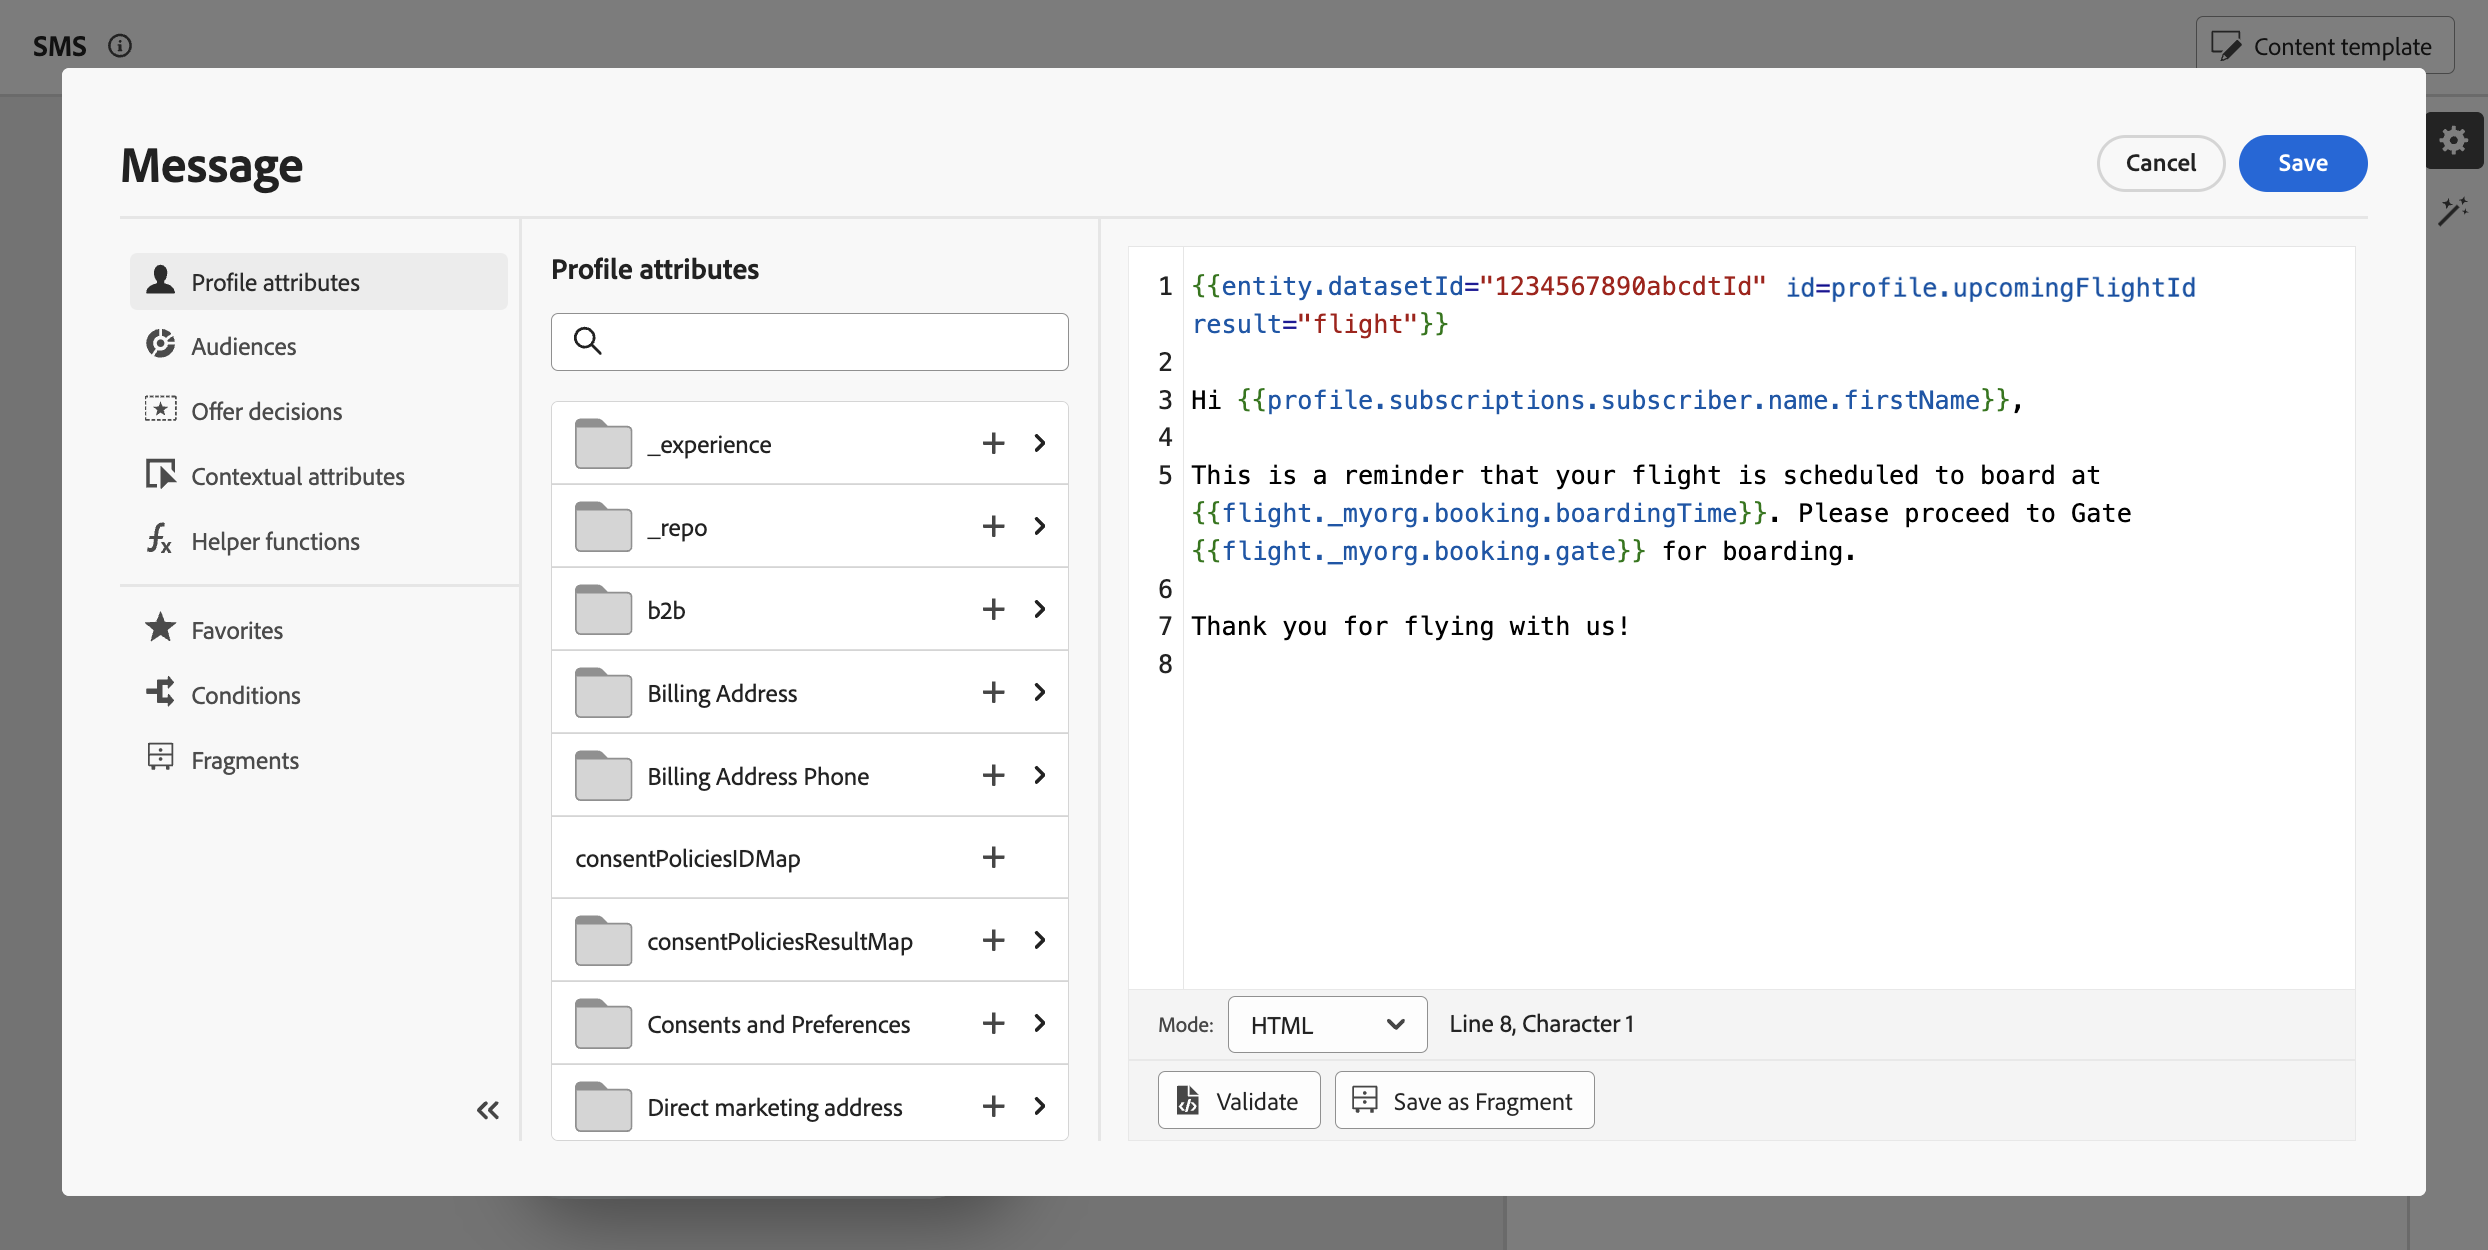
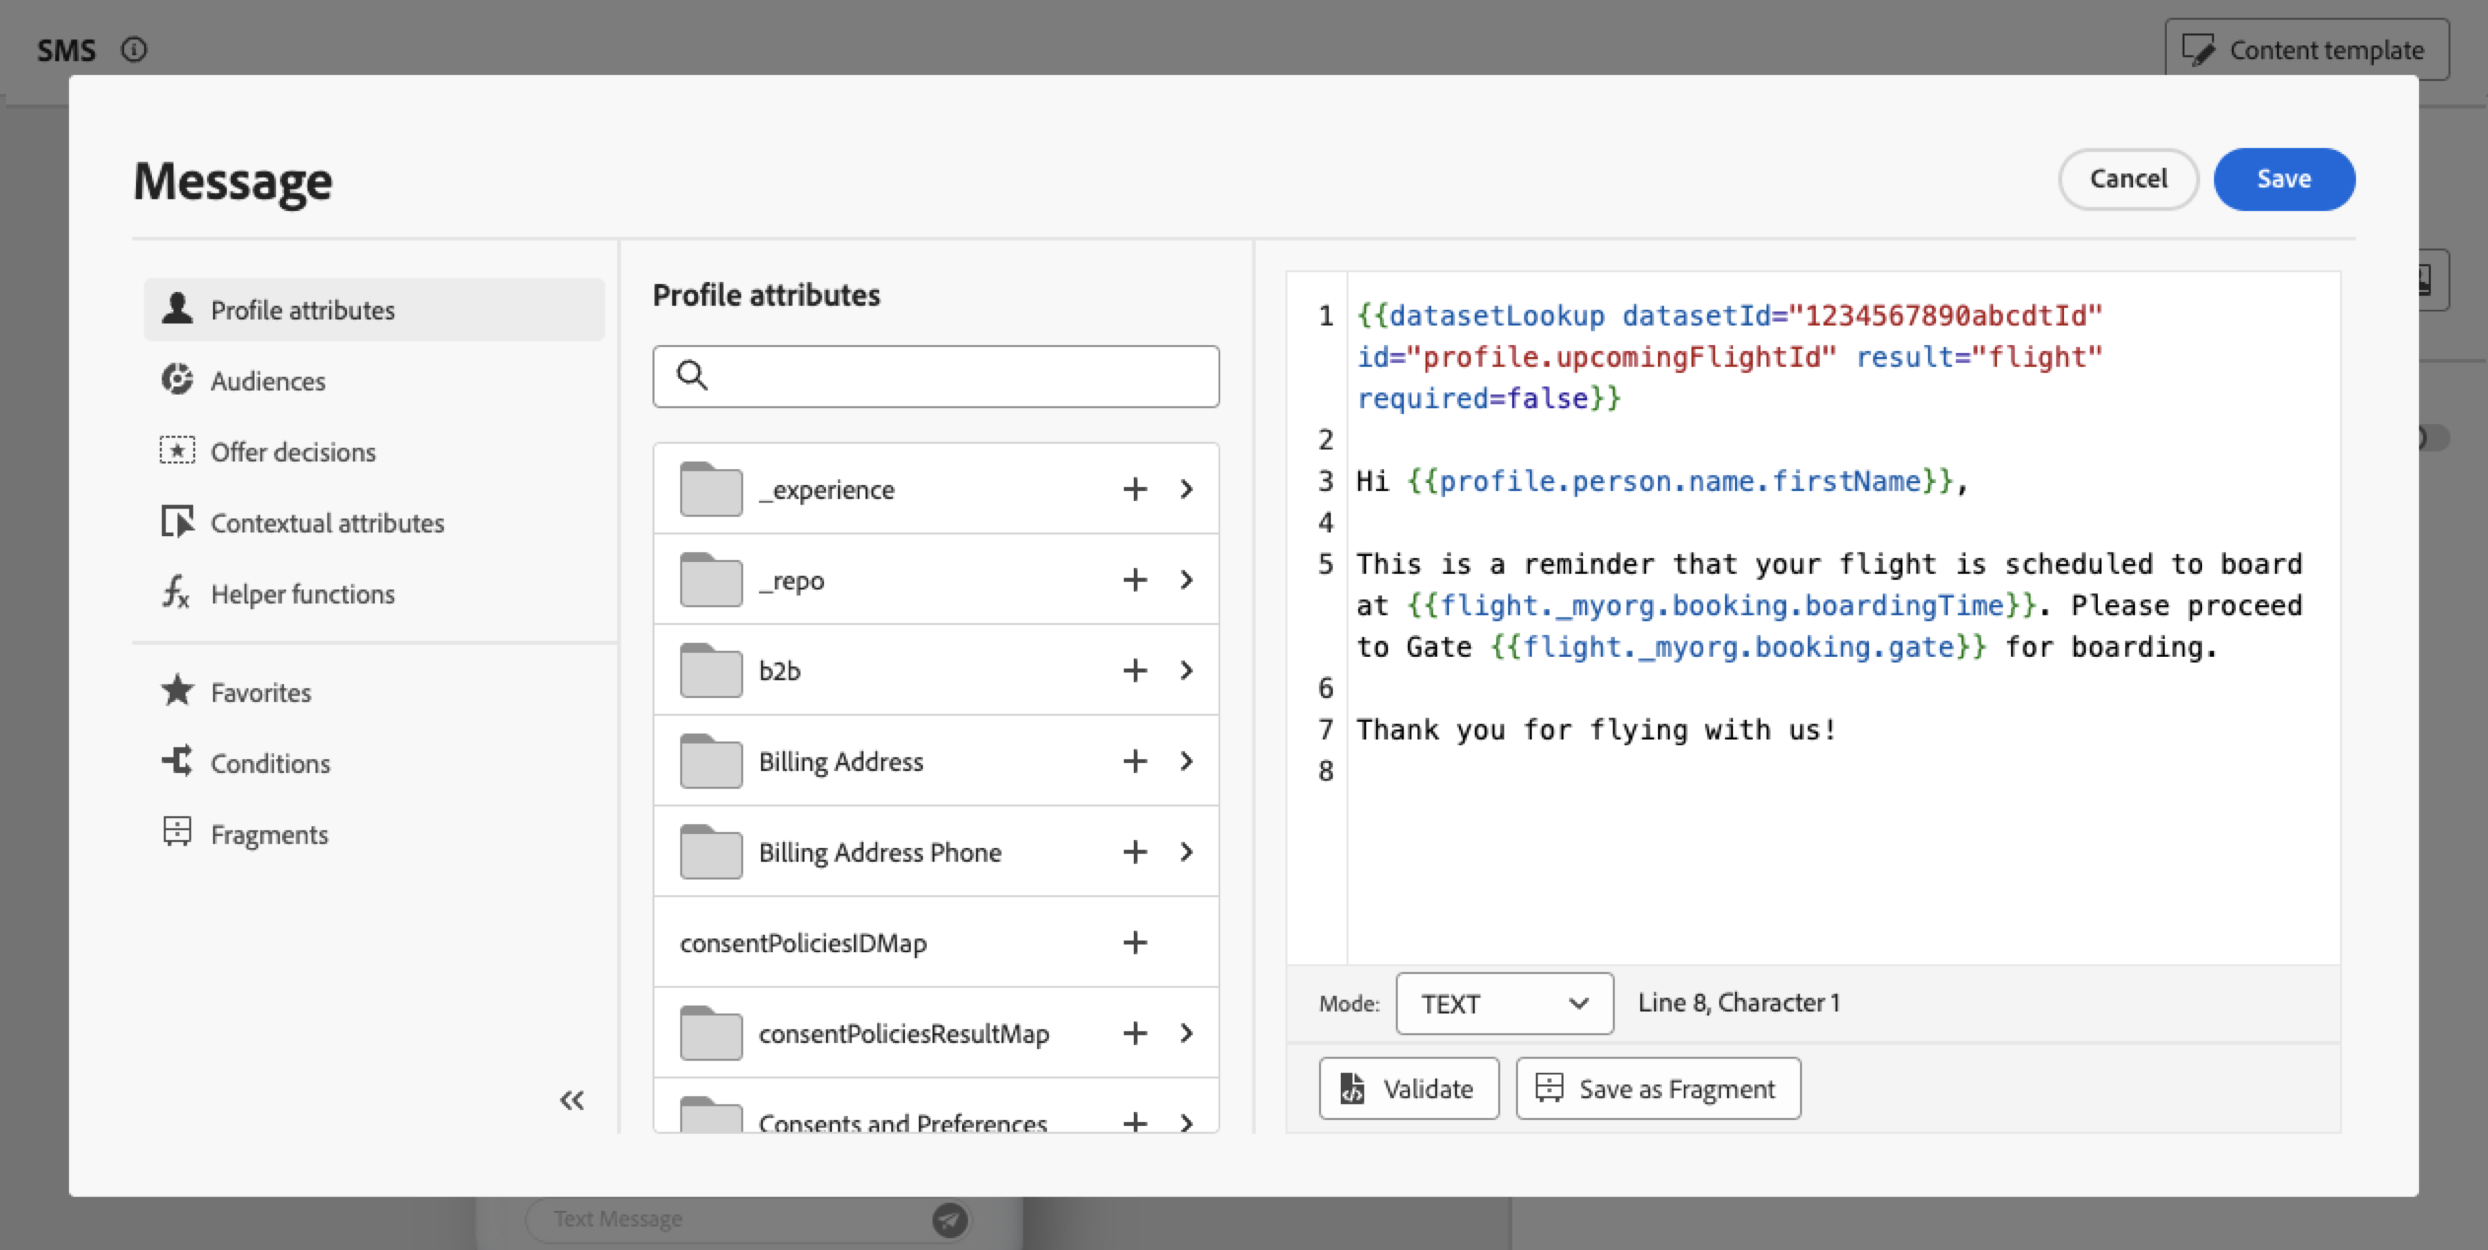
Docac 11262 data lookup personalization (#1775)
* first draft data lookup

* update

* fix

* update

* fix

* updtae rn

* add link to doc

* remove screenshot

diff --git a/help/using/personalization/lookup-aep-data.md b/help/using/personalization/lookup-aep-data.md
@@ -1,26 +1,78 @@
 ---
 solution: Journey Optimizer
 product: journey optimizer
-title: Use Adobe Experience Platform data for personalization (beta)
+title: Use Adobe Experience Platform data for personalization (Beta)
 description: Learn how to use Adobe Experience Platform data for personalization.
 feature: Personalization, Rules
 topic: Personalization
 role: Data Engineer
 level: Intermediate
 keywords: expression, editor
-hidefromtoc: yes
-hide: yes
 exl-id: 2fc10fdd-ca9e-46f0-94ed-2d7ea4de5baf
 ---
-# Use Adobe Experience Platform data for personalization (beta) {#aep-data}
+# Use Adobe Experience Platform data for personalization (Beta) {#aep-data}
 
 >[!AVAILABILITY]
 >
->This feature is currently only available as a private beta.
+>This feature is currently available to all customers as a public beta.
 >
->For now, it is only available for the **email channel** and for testing purposes in the non-production sandbox you have provided to Adobe and for the datasets requested for the beta. 
+>In order to use this capability, you must first accept beta terms for your organization that display when adding the new "datasetLookup" helper functions in the personalization editor.
 
-Journey Optimizer allows you to leverage data from Adobe Experience Platform in the personalization editor to [personalize your content](../personalization/personalize.md). The steps are as follows: 
+Journey Optimizer allows you to leverage data from Adobe Experience Platform in the personalization editor to [personalize your content](../personalization/personalize.md). To do this, datasets needed for lookup personalization must first be enabled through an API call as described below. Once done, you can use their data to personalize your content into [!DNL Journey Optimizer].
+
+## Beta restrictions and guidelines {#guidelines}
+
+Before you begin, please review the following restrictions and guidelines:
+
+### Datasets enablement {#enablement}
+
+* **Dataset size** is limited to 5GB for production datasets and 1GB for dev sandbox datasets
+* **A maximum of 50 datasets can be enabled** for lookup per organization at any time.
+* **Number of records** is restricted to 5M in production datasets and 1M in dev sandbox datasets.
+* **Data Usage Labelling and Enforcement** is not enforced at this time for datasets enabled for lookup.
+* **Datasets enabled for lookup and used in personalization are not protected from deletion**. It is up to you to keep track of which datasets are being used for personalization to ensure they are not deleted or removed.
+
+### Personalization using [!DNL Adobe Experience Platform] data {#perso}
+
+* **Supported channels**: For now, this capability is only available for usage within email, SMS, push and direct mail channels.
+* **Data Usage Labelling and Enforcement** is not enforced at this time for datasets enabled for lookup.
+* **Expression fragments**: Dataset lookup personalization cannot be placed within expression fragments at this time.
+
+## Enable a dataset for data lookup {#enable}
+
+In order to leverage data from your dataset for personalization, you need to use an API call to retrieve its status and enable lookup service.
+
+### Prerequisites {#prerequisites-enable}
+
+* Follow the directions detailed in [this documentation](https://developer.adobe.com/journey-optimizer-apis/references/authentication/) to configure your environment to send API commands.
+* The developer project must have the Adobe Journey Optimizer and Adobe Experience Platform APIs added to their project.
+
+    ![](assets/aep-data-api.png)
+
+* You must have manage datasets permission as part of your role.
+* The schema for which the dataset is based on must contain a **primary identity** that can act as the lookup key.
+
+### API call structure {#call}
+
+```
+
+curl -s -XPATCH "https://platform.adobe.io/data/core/entity/lookup/dataSets/${DATASET_ID}/${ACTION}" \ -H "Authorization: Bearer ${ACCESS_TOKEN}" \ -H "x-api-key: ${API_KEY}" \ -H "x-gw-ims-org-id: ${IMS_ORG}" \ -H "x-sandbox-name: ${SANDBOX_NAME}"
+
+```
+
+Where:
+
+* **URL** is `https://platform.adobe.io/data/core/entity/lookup/dataSets/${DATASET_ID}/${ACTION}`
+* **Dataset ID** is the dataset for which you wish to enable.
+* **Action** is enable OR disable.
+* **Access token** can be retrieved from the developer console.
+* **API key** can be retrieved from the developer console.
+* **IMS Org ID** is your Adobe IMS ORG.
+* **Sandbox Name** is the sandbox name the dataset is in (i.e. prod, dev etc.).
+
+## Leverage a dataset for personalization {#leverage}
+
+Once a dataset has been enabled for lookup personalization using an API call, you can use its data to personalize your content into [!DNL Journey Optimizer].
 
 1. Open the personalization editor, which is available in every context where you can define personalization such as messages. [Learn how to work with the personalization editor](../personalization/personalization-build-expressions.md)
 
@@ -32,18 +84,22 @@ Journey Optimizer allows you to leverage data from Adobe Experience Platform in 
 
     ```
 
-    {{entity.datasetId="datasetId" id="key" result="store"}}
+    {{datasetLookup datasetId="datasetId" id="key" result="store" required=false}}
 
     ```
 
-    * **entity.datasetId** is the ID of the dataset you are working with.
+    * **datasetId** is the ID of the dataset you are working with.
     * **id** is the ID of the source column that should be joined with the primary identity of the look up dataset. 
 
         >[!NOTE]
         >
-        >The value entered for this field can be either a field ID (*profile.couponValue*), a field passed in a journey event (*context.journey.events.event_ID.couponValue*), or a static value (*couponAbcd*). In any case, the system will use the value and lookup into the dataset to check if it matches a a key.
+        >The value entered for this field can be either a field ID (*profile.packages.packageSKU*), a field passed in a journey event (*context.journey.events.event_ID.productSKU*), or a static value (*sku007653*). In any case, the system will use the value and lookup into the dataset to check if it matches a key.
+        >
+        >If using a literal string value for the key, keep the text in quotes. Eg: `{{datasetLookup datasetId="datasetId" id="SKU1234" result="store" required=false}}`. If using an attribute value as a dynamic key, remove the quotes. Eg: `{{datasetLookup datasetId="datasetId" id=category.product.SKU result="SKU" required=false}}`
 
     * **result** is an arbitrary name that you need to provide to reference all the field values you are going to retrieve from the dataset. This value will be used in your code to call each field.
+
+    * **required=false**: If required is set to TRUE, the message will only be delivered if a matching key is found. If set to false, a matching key is not required and the message can still be delivered. Note that, if set to false, it is recommended that you account for fallback or default values in your message content.
 
     +++Where to retrieve a dataset ID?
 
@@ -57,7 +113,7 @@ Journey Optimizer allows you to leverage data from Adobe Experience Platform in 
 
     ```
 
-    {{entity.datasetId="1234567890abcdtId" id=profile.upcomingFlightId result="flight"}}
+    {{datasetLookup datasetId="1234567890abcdtId" id=profile.upcomingFlightId result="flight"}}
 
     ```
     
@@ -73,8 +129,12 @@ Journey Optimizer allows you to leverage data from Adobe Experience Platform in 
 
     ```
 
+    >[!NOTE]
+    >
+    >When referencing a dataset field, make sure that you match the full field path as defined within the schema.
+
     * **result** is the value that you have assigned to the **result** parameter in the **MultiEntity** helper function. In this example "flight".
-    * **fieldID** is the ID of the field you want to retrieve. This ID is visible in Adobe Experience Platform user interface when browsing your dataset. Expand the section below to display an example:
+    * **fieldID** is the ID of the field you want to retrieve. This ID is visible in [!DNL Adobe Experience Platform] user interface when browsing the record schema related to your dataset:
 
         +++Where to retrieve a field ID?
 

diff --git a/help/using/rn/release-notes.md b/help/using/rn/release-notes.md
@@ -251,7 +251,7 @@ Previously available for a set of organizations (LA), the following capabilities
 </table>
 
 
-<!--<table>
+<table>
 <thead>
 <tr>
 <th><strong>Use Adobe Experience Platform data for personalization (Beta)</strong><br/></th>
@@ -262,11 +262,11 @@ Previously available for a set of organizations (LA), the following capabilities
 <td>
 <p>Leverage data from Adobe Experience Platform in the personalization editor to personalize your content. To do this, datasets needed for lookup personalization must first be enabled through an API call. Once done, you can use their data to personalize your content into [!DNL Journey Optimizer].</p>
 <p>This capability is currently available to all customers as a public beta.</p>
-<p>For more information, refer to the <a href="../personalization/lookup-aep-data.md"</a>.</p>
+<p>For more information, refer to the <a href="../personalization/lookup-aep-data.md">detailed documentation</a>.</p>
 </td>
 </tr>
 </tbody>
-</table>-->
+</table>
 
 ### Improvements {#24-10-improvements}
 

diff --git a/help/TOC.md b/help/TOC.md
@@ -320,7 +320,7 @@ solution: Journey Optimizer
     + [Get started with personalization](using/personalization/personalize.md)
     + [Personalization contexts](using/personalization/personalization-contexts.md)
     + [Personalization syntax](using/personalization/personalization-syntax.md)
-    + [Use Adobe Experience Platform data for personalization](using/personalization/lookup-aep-data.md)
+    + [Use Adobe Experience Platform data for personalization (Beta)](using/personalization/lookup-aep-data.md)
     + Work with the personalization editor {#expression-editor}
       + [About the personalization editor](using/personalization/personalization-build-expressions.md)
       + [Add attributes to favorites](using/personalization/personalization-favorites.md)   
